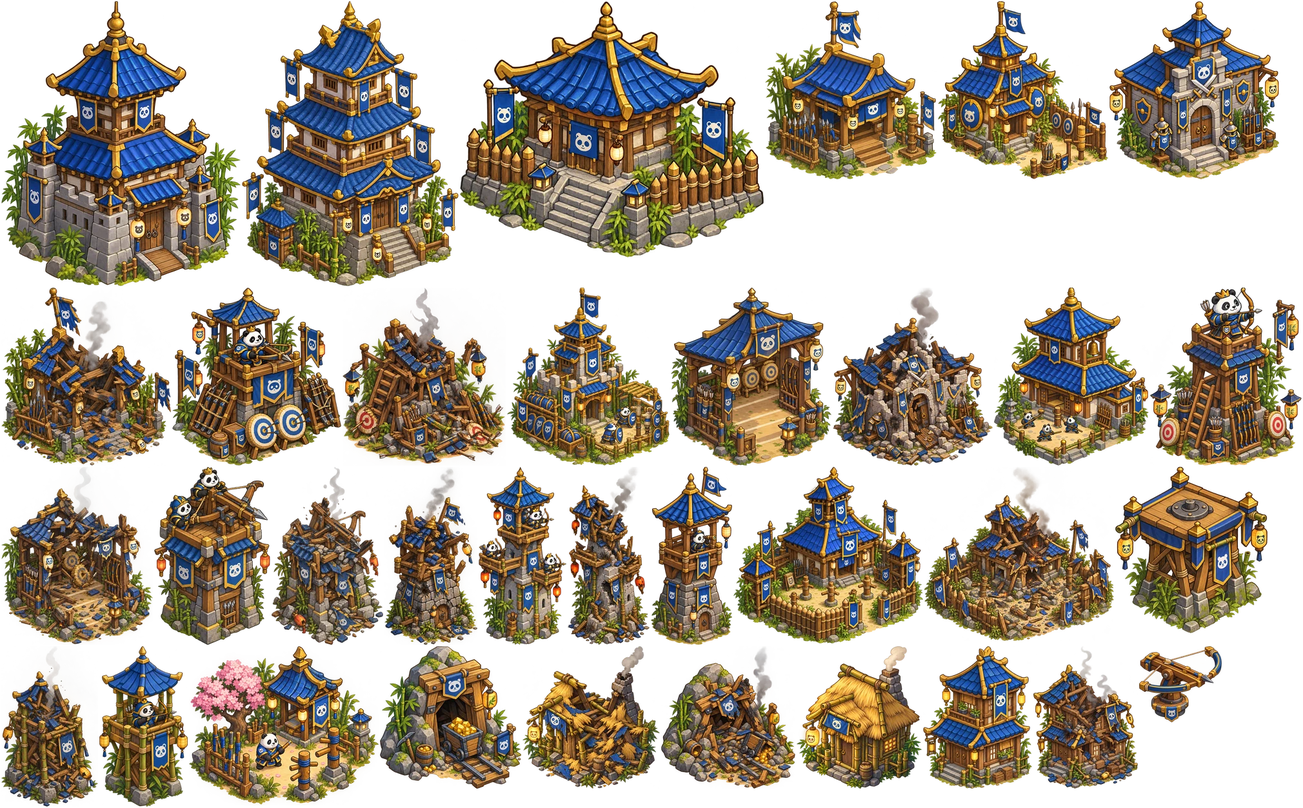
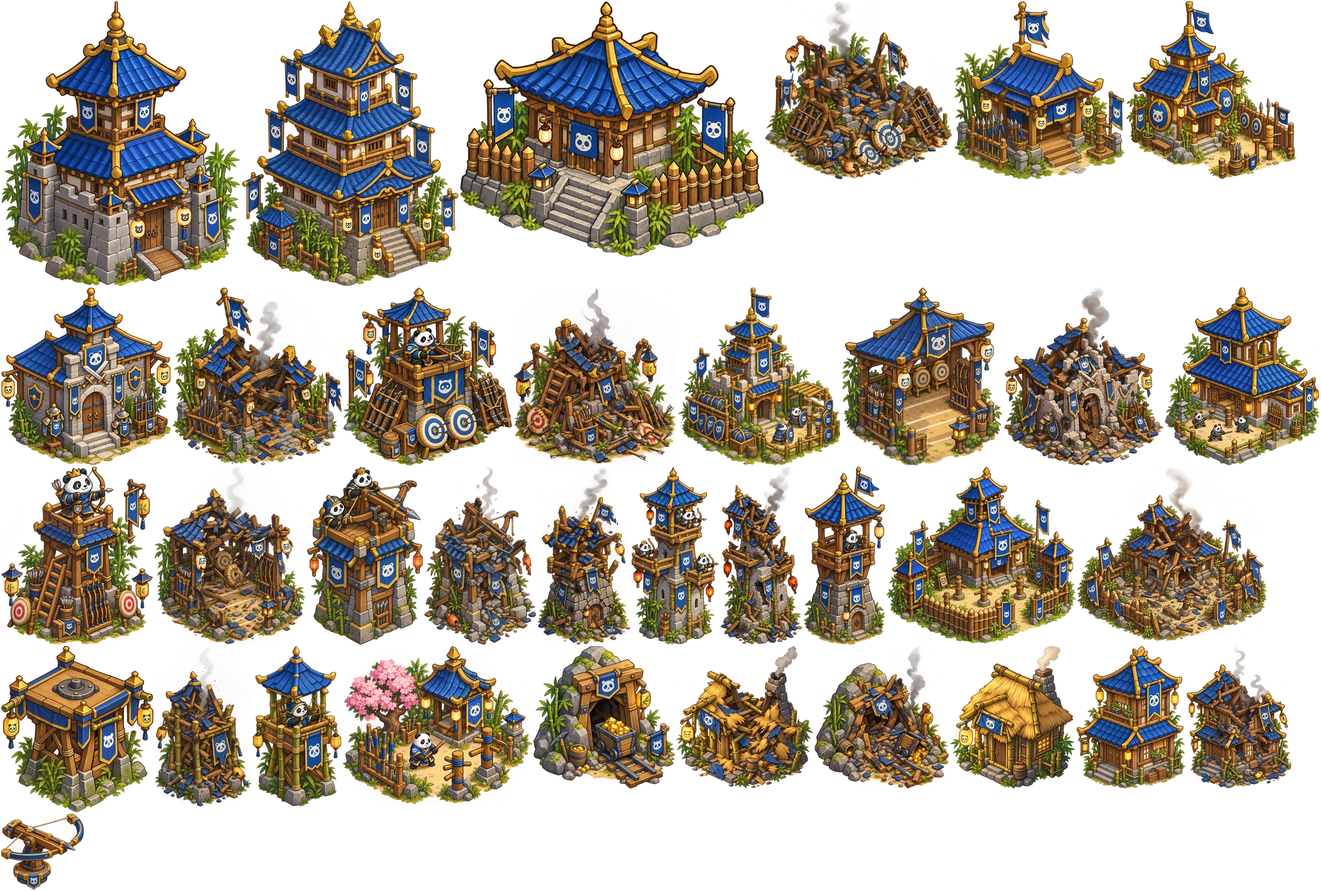
Add the crossbow range ruin (13 CU) and mark F24 fixed
Claude-Session: https://claude.ai/code/session_013AJ7EtoXdJS1wv7zoKHf7Y

diff --git a/docs/plans/2026-10-14-playtest-remediation.md b/docs/plans/2026-10-14-playtest-remediation.md
@@ -149,7 +149,7 @@ recommended resolution below is adopted; do not silently mark them as fixed.
 | F21 | Fixed · PR #43 merged                   | Top HUD hides enemies at night                               | P0 / B0          | Compact night HUD and camera framing keep approaching enemies/telegraphs out from under opaque panels; boss bar/toasts and edge indicators remain usable on short landscape phones.                                                                                                                                                                                                                                                                                 |
 | F22 | Fixed · PR pending (T1)                 | Cliffs drawn as flat horizontal strips                       | P1 / B3          | Reported 2026-10-15. `PlayScene.ts` stamps the one front-facing `cliff_section` every 3.2 m along each cliff line, whatever its direction, so the ring around the hollow reads as stacked terrace steps, too low to be a cliff. Cliffs must follow the ring: a face where the high ground's edge faces the camera, side and back pieces elsewhere, `cliff_end` at the passes, and enough height to read as a cliff. Visible cliff and collision stay the same line. |
 | F23 | Open · second playtest                  | Gate changes size between open and closed states             | P1 / B1          | Closed/open art shares one calibrated structure footprint: fixed post and hinge positions, stable apparent height and stable outer bounds. Only the moving leaves change pose; toggling the gate never makes the building grow or shrink.                                                                                                                                                                                                                           |
-| F24 | Open · second playtest                  | Every building uses the same destroyed asset                 | P1 / B1          | A destroyed building remains identifiable by class or footprint. Define an existing-asset or code-driven ruin treatment for castle, economy, tower and military buildings without showing one identical ruin at every scale; destruction, repair, upgrade and restart remain stable.                                                                                                                                                                                |
+| F24 | Fixed · PR #58                          | Every building uses the same destroyed asset                 | P1 / B1          | A destroyed building remains identifiable by class or footprint. Define an existing-asset or code-driven ruin treatment for castle, economy, tower and military buildings without showing one identical ruin at every scale; destruction, repair, upgrade and restart remain stable.                                                                                                                                                                                |
 
 ## Parallel tracks (2026-10-15)
 

diff --git a/art/review/AUDIT.md b/art/review/AUDIT.md
@@ -1,7 +1,7 @@
 # Panda art audit
 
-Generated by `pnpm art audit`. 122/123 logical assets complete; 199 generation parts in total.
-**Incomplete**: see the problems column.
+Generated by `pnpm art audit`. 123/123 logical assets complete; 199 generation parts in total.
+**Complete.**
 
 | # | id | parts | masters | runtime | state | problems |
 |---|---|---|---|---|---|---|
@@ -127,4 +127,4 @@ Generated by `pnpm art audit`. 122/123 logical assets complete; 199 generation p
 | 120 | ruin_knight_hall | 1 | 1 | 1 | validated |  |
 | 121 | ruin_archery_range | 1 | 1 | 1 | validated |  |
 | 122 | ruin_marksmen | 1 | 1 | 1 | validated |  |
-| 123 | ruin_crossbow_range | 1 | 0 | 0 | pending | ruin_crossbow_range: no master; ruin_crossbow_range: not in runtime atlases; ruin_crossbow_range: pending |
+| 123 | ruin_crossbow_range | 1 | 1 | 1 | validated |  |
